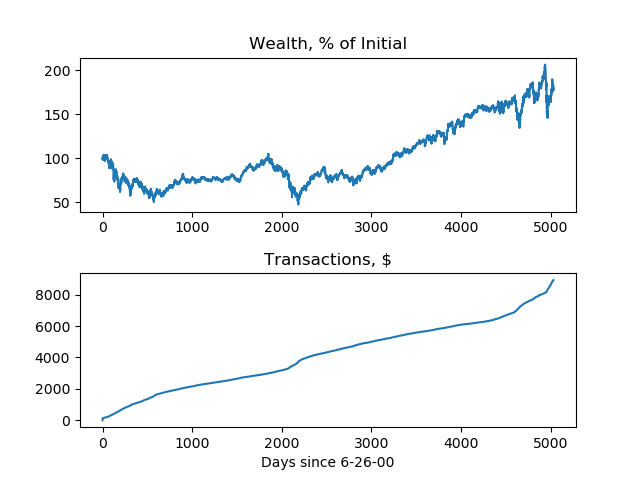
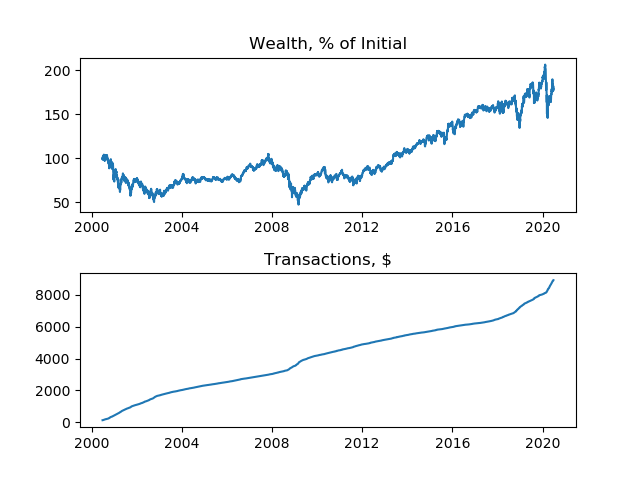
plot all portfolios with dates, reduce params in portfolio contructor, move plot func to portfolio class

diff --git a/trading_strats.py b/trading_strats.py
@@ -3,19 +3,20 @@ import numpy as np
 from matplotlib import pyplot as plt
 
 class portfolio:
-	def __init__(self, initW, num_stocks, cost_per_unit, prices, num_points):
+	def __init__(self, num_stocks, prices, num_points, dates):
 		self.W = []
-		self.cumulative_tc = [0.]
+		self.cumulative_tc = []
 		self.purchases = []
 		self.sales = []
 		self.ttc = 0.
 		self.peak = 0.
 		self.md = 0.
-		self.initW = initW
+		self.initW = 10**6
 		self.num_s = num_stocks
-		self.unit_c = cost_per_unit
+		self.unit_c = .005
 		self.prices = prices
 		self.N = num_points
+		self.dates = dates
 
 	def run(self):
 		num_assets = self.num_s+1
@@ -41,7 +42,10 @@ class portfolio:
 			w_n_shares = np.sum(theta_n*p_n)
 			mm_balance = w_n_prev-w_n_shares-transact_cost
 			self.ttc += transact_cost
-			self.cumulative_tc.append(self.cumulative_tc[-1]+transact_cost)
+			if len(self.cumulative_tc) == 0:
+				self.cumulative_tc.append(transact_cost)
+			else:
+				self.cumulative_tc.append(self.cumulative_tc[-1]+transact_cost)
 			self.add_wealth(mm_balance+w_n_shares)
 			theta_n_prev = theta_n
 
@@ -67,7 +71,6 @@ class portfolio:
 		N = 252
 		return ((daily_mean+1.)**N)-1.
 
-	# larger of purchases or sales over year / average net assets over year
 	def get_turnover(self):
 		num_year = 252
 		start_ind = range(0, self.N, num_year)
@@ -85,15 +88,27 @@ class portfolio:
 		wealth_avgs = []
 		for chunk in wealth_chunks:
 			wealth_avgs.append(np.mean(chunk))
+
+		# larger of purchases or sales over year / average net assets over year
+		# averaged over trading years
 		turnovers = [np.maximum(p,s)/w for p,s,w in zip(purchase_sums,sale_sums,wealth_avgs)]
 		return np.mean(turnovers)
 
-	def to_string(self):
+	def print_stats(self):
 		print(f"Turnover: {self.get_turnover()*100.0:.3f} %")
 		print(f"Annualized rate of return: {self.get_annualized_return()*100.0:.3f} %")
 		print(f"Expense ratio: {self.ttc/self.W[-1]*100.0:.3f} %")
 		print(f"Max drawdown: {self.md:.3f} %")
 		print(f"Sharpe ratio: {self.get_sharpe_ratio():.3f}")
+
+	def plot(self):
+		fig, axs = plt.subplots(2)
+		axs[0].plot(self.dates, np.array(self.W)/self.initW*100.0)
+		axs[1].plot(self.dates, np.array(self.cumulative_tc))
+		axs[0].set_title('Wealth, % of Initial')
+		axs[1].set_title('Transactions, $')
+		plt.subplots_adjust(hspace = .4)
+		plt.show()
 
 # Adjusted close downloaded from June 25, 2000 to June 26, 2020 inclusive of 3 stocks using data from Yahoo Finance
 MSFT=pd.read_csv('MSFT.csv')["Adj Close"].to_numpy()
@@ -101,15 +116,15 @@ CSCO=pd.read_csv('CSCO.csv')["Adj Close"].to_numpy()
 GE=pd.read_csv('GE.csv')["Adj Close"].to_numpy()
 prices = np.vstack((MSFT, CSCO, GE))
 
+t_dates = pd.to_datetime(pd.read_csv('GE.csv')["Date"]).to_numpy()
+
 N = len(prices[0])
-initial_wealth = 10**6
-cost_per_unit = 0.005
 num_stocks = len(prices)
 
 print("All 20 years")
-full_portfolio = portfolio(initial_wealth, num_stocks, cost_per_unit, prices, N)
+full_portfolio = portfolio(num_stocks, prices, N, t_dates)
 full_portfolio.run()
-full_portfolio.to_string()
+full_portfolio.print_stats()
 print()
 
 highest_start_index = 0
@@ -145,49 +160,42 @@ for i in range(0, N-trading_days):
 		stable_start_index = i
 
 print("Most volatile year")
-volatile_prices_range = prices[:,volatile_start_index:volatile_start_index+trading_days]
-volatile_portfolio = portfolio(initial_wealth, num_stocks, cost_per_unit, volatile_prices_range, trading_days)
+v_range = range(volatile_start_index,volatile_start_index+trading_days)
+volatile_prices = prices[:,v_range]
+volatile_dates = t_dates[v_range]
+volatile_portfolio = portfolio(num_stocks, volatile_prices, trading_days, volatile_dates)
 volatile_portfolio.run()
-volatile_portfolio.to_string()
+volatile_portfolio.print_stats()
 print()
 
 print("Least volatile year")
-stable_prices_range = prices[:,stable_start_index:stable_start_index+trading_days]
-stable_portfolio = portfolio(initial_wealth, num_stocks, cost_per_unit, stable_prices_range, trading_days)
+s_range = range(stable_start_index,stable_start_index+trading_days)
+stable_prices = prices[:,s_range]
+stable_dates = t_dates[s_range]
+stable_portfolio = portfolio(num_stocks, stable_prices, trading_days, stable_dates)
 stable_portfolio.run()
-stable_portfolio.to_string()
+stable_portfolio.print_stats()
 print()
 
 print("Best year")
-highest_prices_range = prices[:,highest_start_index:highest_start_index+trading_days]
-highest_portfolio = portfolio(initial_wealth, num_stocks, cost_per_unit, highest_prices_range, trading_days)
+h_range = range(highest_start_index,highest_start_index+trading_days)
+highest_prices = prices[:,h_range]
+highest_dates = t_dates[h_range]
+highest_portfolio = portfolio(num_stocks, highest_prices, trading_days, highest_dates)
 highest_portfolio.run()
-highest_portfolio.to_string()
+highest_portfolio.print_stats()
 print()
 
 print("Worst year")
-lowest_prices_range = prices[:,lowest_start_index:lowest_start_index+trading_days]
-lowest_portfolio = portfolio(initial_wealth, num_stocks, cost_per_unit, lowest_prices_range, trading_days)
+l_range = range(lowest_start_index,lowest_start_index+trading_days)
+lowest_prices = prices[:,l_range]
+lowest_dates = t_dates[l_range]
+lowest_portfolio = portfolio(num_stocks, lowest_prices, trading_days, lowest_dates)
 lowest_portfolio.run()
-lowest_portfolio.to_string()
-print()
+lowest_portfolio.print_stats()
 
-# TODO add specific dates
-fig, axs = plt.subplots(2)
-axs[0].plot(np.array(full_portfolio.W)/initial_wealth*100.0)
-axs[1].plot(full_portfolio.cumulative_tc)
-axs[0].set_title('Wealth, % of Initial')
-axs[1].set_title('Transactions, $')
-plt.subplots_adjust(hspace = .4)
-plt.xlabel('Days since 6-26-00')
-plt.show()
-
-# TODO make into portfolio func
-fig, axs = plt.subplots(2)
-axs[0].plot(np.array(volatile_portfolio.W)/initial_wealth*100.0)
-axs[1].plot(volatile_portfolio.cumulative_tc)
-axs[0].set_title('Wealth, % of Initial')
-axs[1].set_title('Transactions, $')
-plt.subplots_adjust(hspace = .4)
-plt.xlabel('Days since start')
-plt.show()
+full_portfolio.plot()
+volatile_portfolio.plot()
+stable_portfolio.plot()
+highest_portfolio.plot()
+lowest_portfolio.plot()
